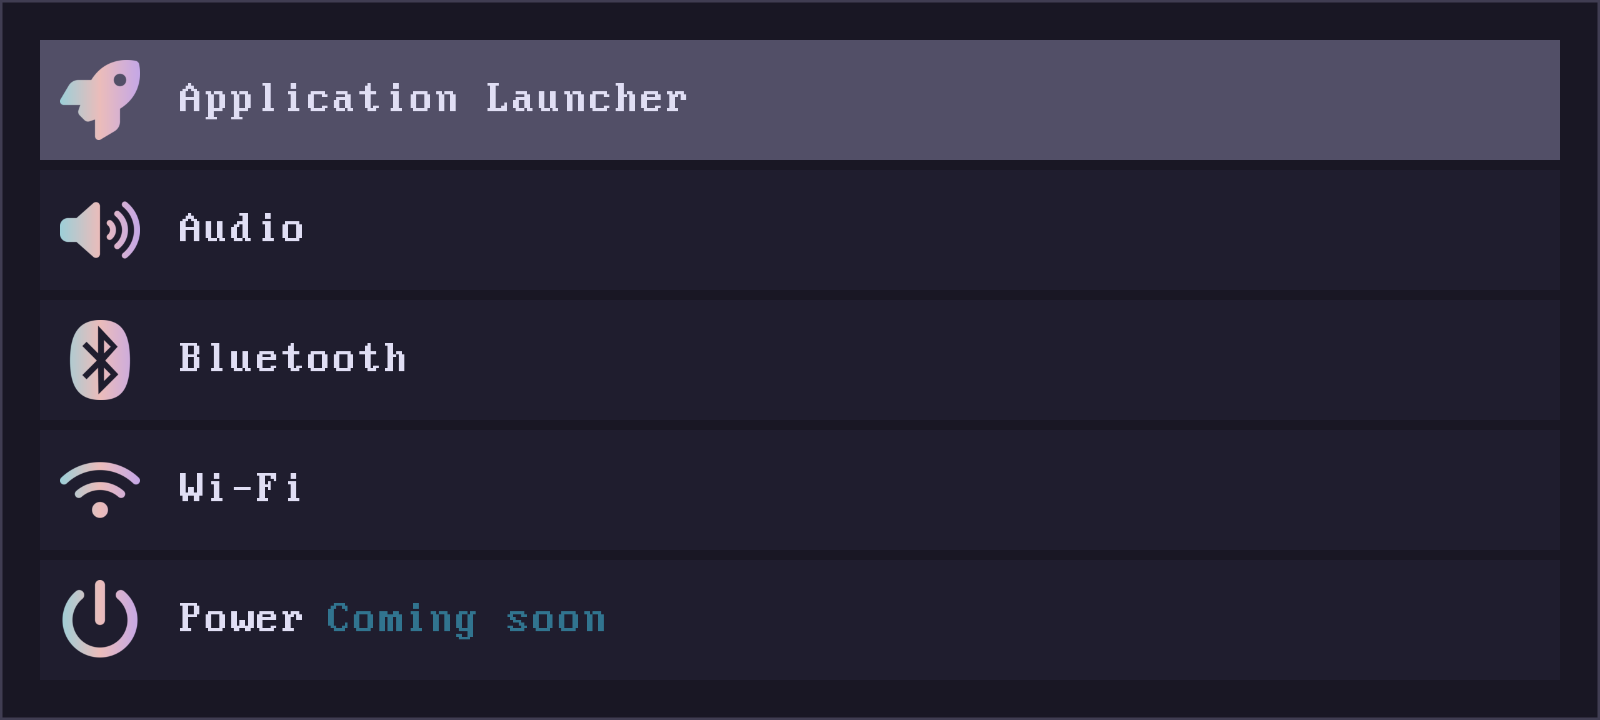
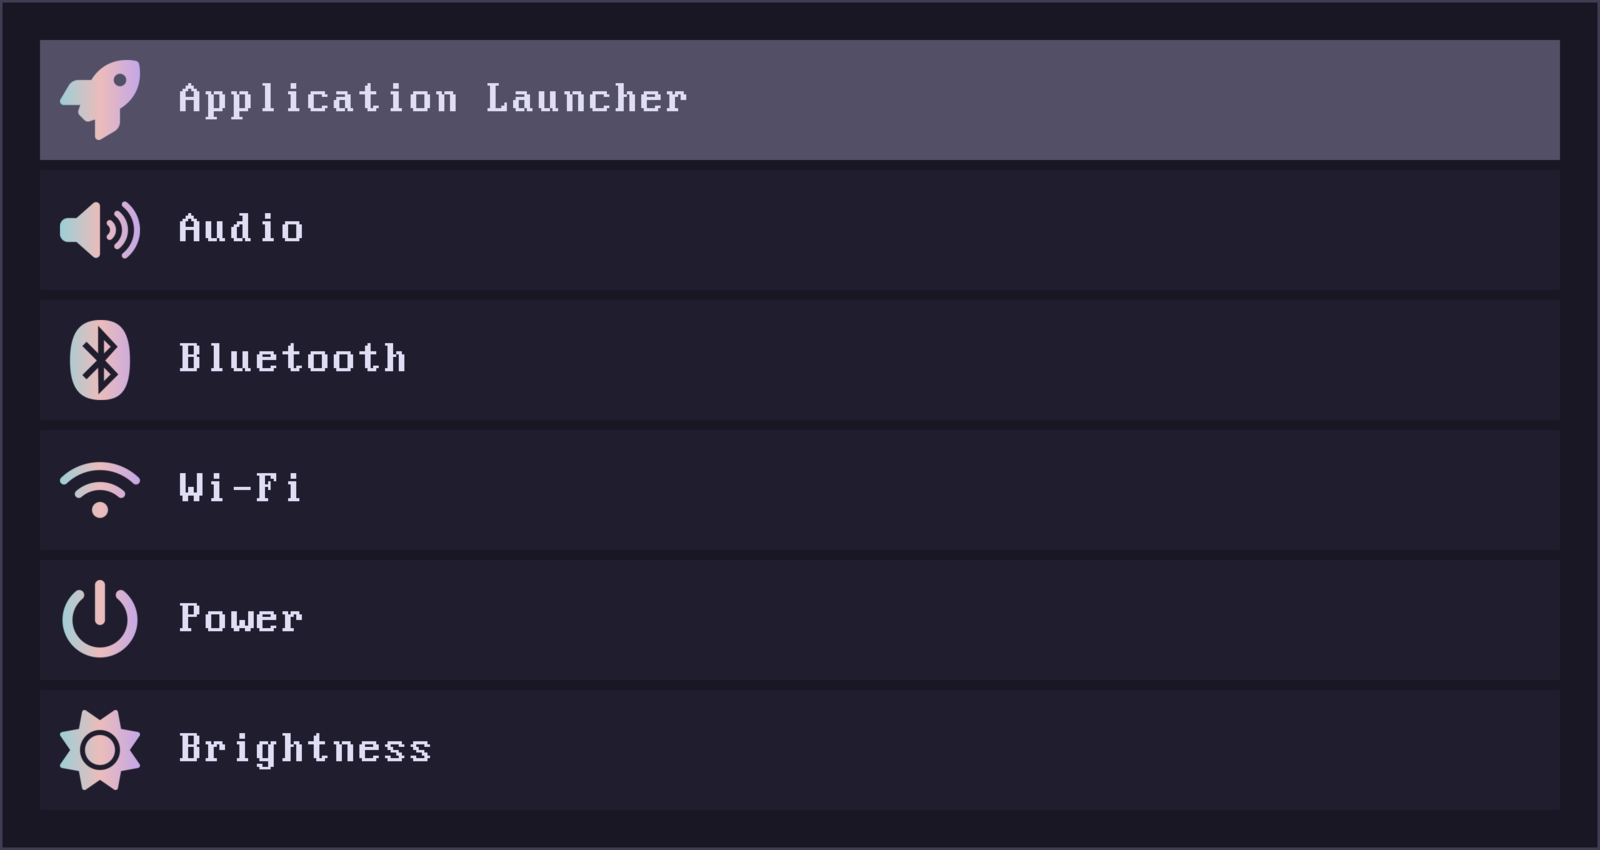
Finish brightness and Bluetooth integration

Changed region(s): [[0.0, 0.0306, 1.0, 0.6111], [0.0312, 0.825, 0.375, 0.9472], [0.0312, 0.6417, 0.1875, 0.7944]]

diff --git a/docs/measure.py b/docs/measure.py
@@ -107,6 +107,7 @@ def main() -> None:
         ("iube bluetooth", ["bluetooth"]),
         ("iube wifi", ["wifi"]),
         ("iube power", ["power"]),
+        ("iube brightness", ["brightness"]),
     ]
 
     print("| Command | Open (median) | Peak RSS |")

diff --git a/docs/cli.md b/docs/cli.md
@@ -50,11 +50,14 @@ The name is passed as one shell argument; quote descriptions containing spaces.
 | `iube bluetooth discover on\|off` | Start or stop discovery on the first adapter. |
 | `iube bluetooth connect <name\|address>` | Connect a known device. |
 | `iube bluetooth disconnect <name\|address>` | Disconnect a device. |
+| `iube bluetooth pair <name\|address>` | Pair a device using a just-works agent. |
+| `iube bluetooth forget <name\|address>` | Remove a paired device. |
 | `iube bluetooth list` | Print the adapter and known devices. |
 
 Device names and addresses are matched case-insensitively. `connect` does not
-pair: the device must already be known to BlueZ. Use `iube bluetooth` or another
-BlueZ client to pair a new device.
+pair: the device must already be known to BlueZ. `pair` registers a short-lived
+just-works agent; devices that require a passkey or PIN are rejected with a
+clear error. `forget` removes the device from the adapter.
 
 `list` prints one device per line as state, name and address:
 
@@ -164,8 +167,9 @@ handlers such as `on-click`, not in a polling command.
 - Audio actions use the default sink or source. They do not select a device
   first unless `iube audio default` is used.
 - Audio volume is limited to 0-100% even though PulseAudio allows up to 150%.
-- Bluetooth actions use the first adapter only. Pairing, discovery filters and
-  device removal are not part of this command grammar.
+- Bluetooth actions use the first adapter only. Pairing supports just-works
+  devices; passkey, PIN and display-confirmation flows are not implemented.
+  Discovery filters are not exposed.
 - Wi-Fi actions require NetworkManager. New profiles are limited to open and
   WPA2-PSK networks; WPA3/SAE, enterprise and hidden networks are not supported.
 - Power profiles are limited to low-power/power-saver, balanced and performance

diff --git a/README.md b/README.md
@@ -28,12 +28,13 @@ window setup.
 
 | Tool | Command | Preview | Open | Peak RSS |
 | --- | --- | --- | ---: | ---: |
-| Control panel | `iube` | <img src="docs/screenshot-panel.png" width="280" alt="Control panel"> | 5.0 ms | 14.4 MB |
-| Application launcher | `iube launch` | <img src="docs/screenshot.png" width="280" alt="Application launcher"> | 9.4 ms | 14.4 MB |
+| Control panel | `iube` | <img src="docs/screenshot-panel.png" width="280" alt="Control panel"> | 5.5 ms | 14.4 MB |
+| Application launcher | `iube launch` | <img src="docs/screenshot.png" width="280" alt="Application launcher"> | 7.8 ms | 14.4 MB |
 | Audio | `iube audio` | <img src="docs/screenshot-audio.png" width="280" alt="Audio controller"> | 9.6 ms | 14.4 MB |
-| Bluetooth | `iube bluetooth` | <img src="docs/screenshot-bluetooth.png" width="280" alt="Bluetooth controller"> | 7.4 ms | 14.4 MB |
-| Wi-Fi | `iube wifi` | <img src="docs/screenshot-wifi.png" width="280" alt="Wi-Fi controller"> | 9.6 ms | 14.4 MB |
-| Power | `iube power` | <img src="docs/screenshot-power.png" width="280" alt="Power controller"> | 16.0 ms | 14.4 MB |
+| Bluetooth | `iube bluetooth` | <img src="docs/screenshot-bluetooth.png" width="280" alt="Bluetooth controller"> | 7.7 ms | 14.4 MB |
+| Wi-Fi | `iube wifi` | <img src="docs/screenshot-wifi.png" width="280" alt="Wi-Fi controller"> | 11.9 ms | 14.4 MB |
+| Power | `iube power` | <img src="docs/screenshot-power.png" width="280" alt="Power controller"> | 16.5 ms | 14.4 MB |
+| Brightness | `iube brightness` | <img src="docs/screenshot-brightness.png" width="280" alt="Brightness controller"> | 7.5 ms | 14.4 MB |
 
 Measurements are produced by [docs/measure.py](docs/measure.py). The script runs
 five measurements after one warm-up. Open time is measured from process start to
